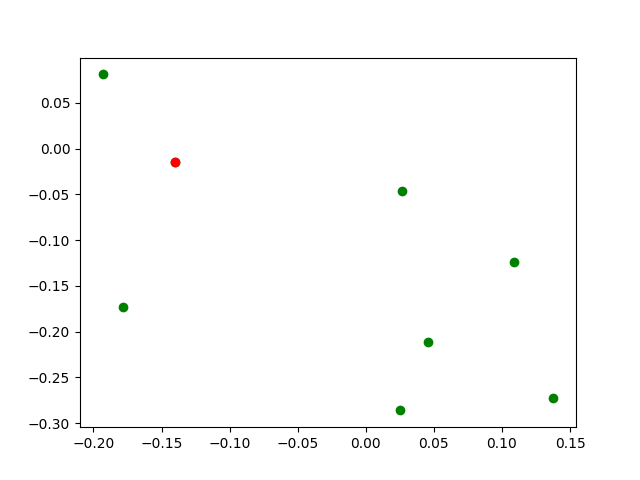
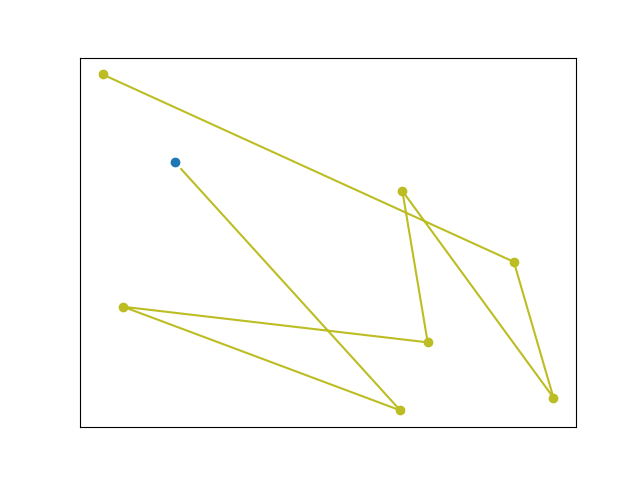
nicer looking plots

diff --git a/metavid.py b/metavid.py
@@ -63,16 +63,29 @@ class metavid:
 		)
 		self.plot_filenames = [] # re-initialize
 		for i in range(0,self.n_atoms):
-			plt.scatter(
+			frame1 = plt.gca()
+			plt.plot(
 				self.atoms[0,:],
 				self.atoms[1,:], 
-				c="g", marker='o'
+				c="tab:olive", marker='o'
 			)
-			plt.scatter(
+			plt.plot(
+				self.atoms[0,0:i+1],
+				self.atoms[1,0:i+1], 
+				c="tab:gray", marker='o'
+			)
+			plt.plot(
 				self.atoms[0,i],
 				self.atoms[1,i], 
-				c="r", marker='o'
+				c="white", marker='o', markersize=10
 			)
+			plt.plot(
+				self.atoms[0,i],
+				self.atoms[1,i], 
+				c="tab:blue", marker='o', markersize=6
+			)
+			frame1.axes.xaxis.set_visible(False)
+			frame1.axes.yaxis.set_visible(False)
 			self.plot_filenames.append( # store filenames
 				pl.Path(f'{filename_base}_{i}.png')
 			)
